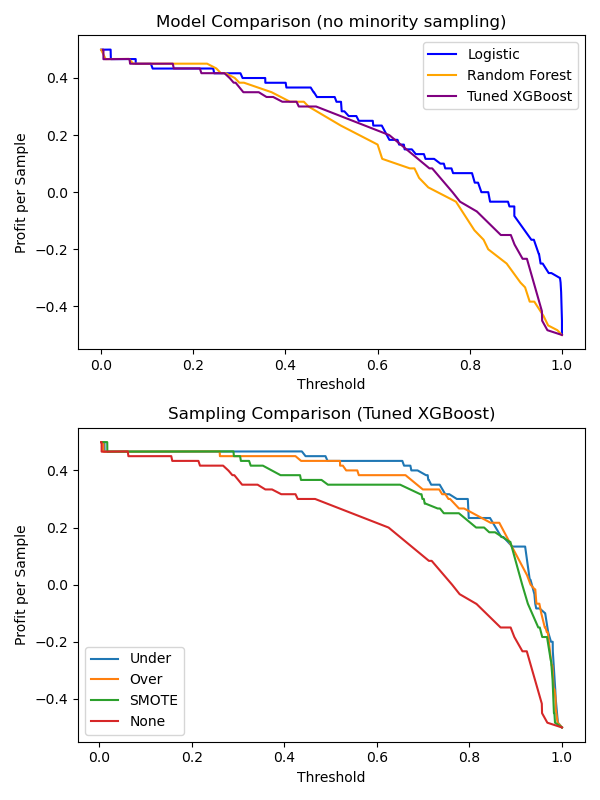
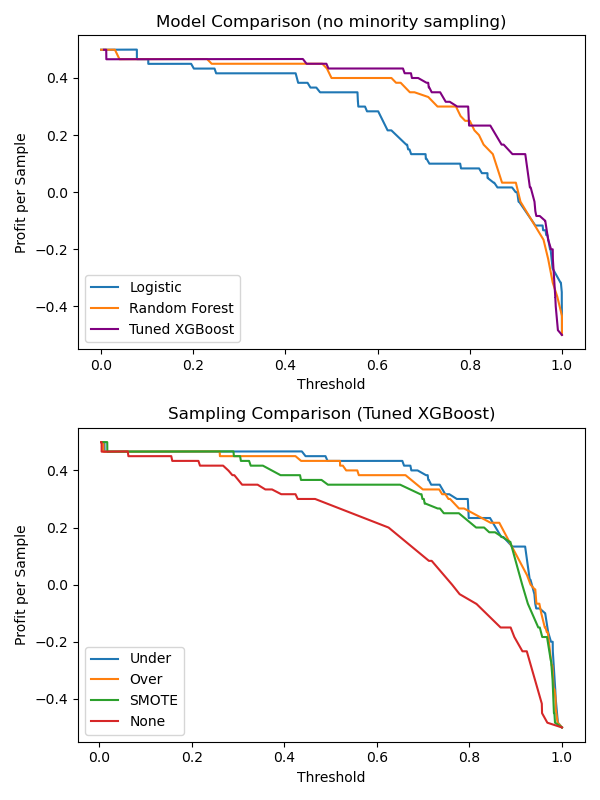
update plots for color consistency

diff --git a/src/misc.py b/src/misc.py
@@ -224,15 +224,15 @@ if __name__ == '__main__':
                         all_df.pop_reported(all_df.train_df)]
     label_sampling = ['Under', 'Over', 'SMOTE', 'None']
     label_models = ['Logistic', 'Random Forest', 'Tuned XGBoost']
-    model_colors = ['blue', 'orange', 'purple']
+    model_colors = ['C0', 'C1', 'purple']
     stack_profit_curves(mod_class_list, sampling_methods, mod_class_list[2],
                         label_models, label_sampling, X_test, y_test,
                         cost_matrix, model_colors,
-                        fig_name='../images/profit_curve', save=False)
+                        fig_name='../images/profit_curve', save=True)
    
 
-    X, y = all_df.under_sampling(all_df.full_df)
-    plot_learning_curve(mod_boost.model, 'Learning Curve', X, y, axes=None,
-                        ylim=None, cv=10, n_jobs=-1,
-                        train_sizes=np.linspace(.1, 1.0, 10))
-    plt.savefig('../images/learning.png')
+    # X, y = all_df.under_sampling(all_df.full_df)
+    # plot_learning_curve(mod_boost.model, 'Learning Curve', X, y, axes=None,
+    #                     ylim=None, cv=10, n_jobs=-1,
+    #                     train_sizes=np.linspace(.1, 1.0, 10))
+    # plt.savefig('../images/learning.png')

diff --git a/README.md b/README.md
@@ -105,7 +105,7 @@ The coefficients assigned by the logistic regression follow the importance a che
 ### Comparison
 The F1 score of the logistic regression and random forest models with the features reduced to remove collinearity were less than ideal. In order to determine the best performance possible all the features were used to train a Random Forest and an XGBoost model. The XGBoost is an extreme gradient boosted algorithm that improves the performance of gradient boosted forests. The XGBoost model out performed the Random Forest, but just barely. When all features are included the XGBoost had an F1 score of 0.86 and the Random Forest had a score of 0.85.
 
-![boost_forest_comp](images/boost_forest_comp.png)
+![boost_forest_comp](images/boost_rand_comp.png)
 Figure 8: ROC curve and F1 score comparison over various thresholds for XGBoost Classifier and Random Forest Classifier 
 
 ### Interpretation
